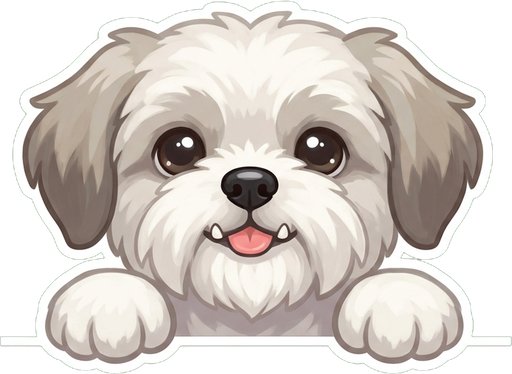
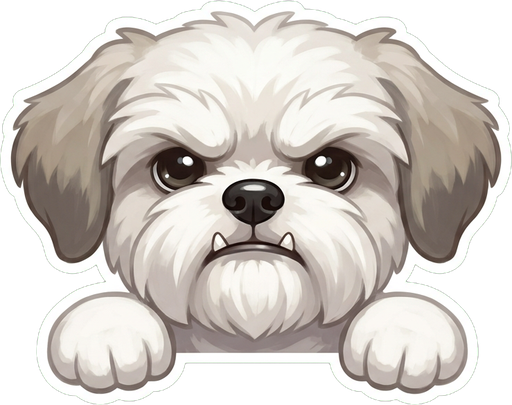
Peeking Pish a little grumpy; the opening's music rotates and is quieter
- The HUD sticker now has Pish's furrowed brows and underbite (owner:
  "make him slightly grumpy looking and an underbite").
- Each pack opening plays the next of three pieces (Magic and Mayhem,
  Enchanted Butterflies, Mischievous Elves), looping while it's up
  (Music.OPENING rotate = "visit", MusicRules.visitTrack); volume 0.1 -> 0.06.

diff --git a/DESIGN.md b/DESIGN.md
@@ -644,9 +644,11 @@ Epic in M" (player attributes PityLegendary / PityEpic); the odds panel and the 
   (soft chimes for Rare and Very Rare, a deep boom for Epic, orchestral hits for Legendary and Frontier) and a shimmer
   while the card is alive; the results swipe in per landing card and end on a bright UI ding (PSE "Synth Sparkle Tone
   High Pitch Bell Tone Ding 4"): the lineup's sounds are never the boss victory's (owner 2026-11-10: it sounded like
-  killing a boss; `tests/OpeningSounds`). **Music**: the opening has its own piece (`Music.OPENING`, crossfading in from
-  wherever you are and back out, through the leveler; owner 2026-11-10: "change the music on this screen. too plain"),
-  six APM options to pick by ear with `/music opening <n> [volume]`. Most come from Roblox's licensed libraries (Pro Sound Effects,
+  killing a boss; `tests/OpeningSounds`). **Music**: the opening has its own music (`Music.OPENING`, crossfading in from
+  wherever you are and back out, through the leveler, quiet at 0.06; owner 2026-11-10: "change the music on this
+  screen. too plain"): each opening plays the next of three APM pieces, looping while it's up ("Magic and Mayhem",
+  "Enchanted Butterflies", "Mischievous Elves"; `rotate = "visit"`, `MusicRules.visitTrack`; owner: "so that when
+  players open lots of pack its not the same music always"); `/music opening <n> [volume]` plays any of the six. Most come from Roblox's licensed libraries (Pro Sound Effects,
   APM) and Daily Sounds (made from scratch); the flip is "card_flip" by f4ngy (Freesound, CC BY).
 - Card faces (`Util/CardFace`, `Config/CardDesign`), clean full-art style (like the top Roblox card games),
   built in code with no frame images: the art fills the card inside a thin rounded rim in the rarity colour
@@ -2900,7 +2902,8 @@ Specs: `docs/superpowers/specs/2026-10-23-ui-restyle-design.md`, then look E in
   tile at its widest, key chip and all, stays inside the gap); the Party pill squishes on a press and hops a little under
   a mouse. Anything stacked over the tile row (the status corner on a narrow PC screen, the toast) sits above its
   popped-out icons at their highest hover (`SquishRules.rowTop`). **The mascot** (`Config/HudMascot`, `Util/HudMascotView`, `Util/HudMascotRules`):
-  Pish (round 5, owner 2026-11-10: "Change peaking cindercub to Pish"; Cindercub before), a Figma-generated
+  Pish (round 5, owner 2026-11-10: "Change peaking cindercub to Pish"; Cindercub before; a little grumpy like the
+  real Pish: furrowed brows and his underbite), a Figma-generated
   sticker (`assets/ui/mascot`, cut out by `tools/ui-art/cutout.py`), peeks over the cushion's left end with his paws
   on the edge and his curled tail poking up behind him; he's the Pish button (section 7.6); it breathes and its tail sways
   (looping tweens), it blinks every 3-7 s (lids drawn over its eyes), it ducks behind the cushion when you summon,
